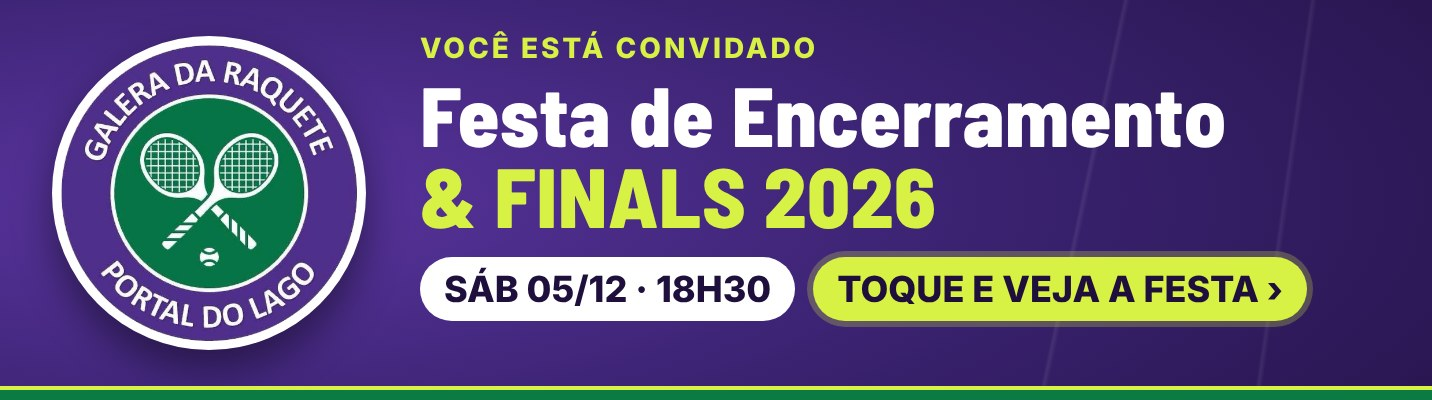
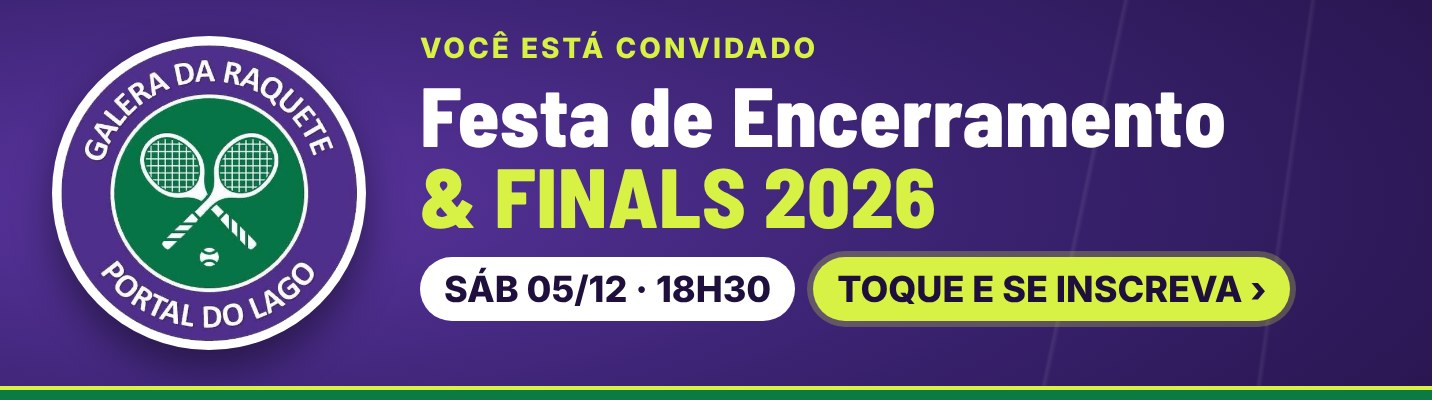
Teste: propaganda da festa com "Toque e se inscreva", até o fim das inscrições (30/11)
Claude-Session: https://claude.ai/code/session_01BnmeGA79SkwkRG86FEwmAw

Changed region(s): [[0.676, 0.63, 0.9218, 0.81]]

diff --git a/ranking-teste/app.js b/ranking-teste/app.js
@@ -1,9 +1,9 @@
 // Galera da Raquete · Ranking — app (PWA) ligado ao Supabase
-import * as M from './motor.js?v=20261118191834';
-import { SUPABASE_URL, SUPABASE_ANON_KEY } from './config.js?v=20261118191834';
-import { REGULAMENTO } from './regulamento.js?v=20261118191834';
-import { PRIVACIDADE, PRIVACIDADE_DATA } from './privacidade.js?v=20261118191834';
-import { TERMOS, TERMOS_DATA } from './termos.js?v=20261118191834';
+import * as M from './motor.js?v=20261118191941';
+import { SUPABASE_URL, SUPABASE_ANON_KEY } from './config.js?v=20261118191941';
+import { REGULAMENTO } from './regulamento.js?v=20261118191941';
+import { PRIVACIDADE, PRIVACIDADE_DATA } from './privacidade.js?v=20261118191941';
+import { TERMOS, TERMOS_DATA } from './termos.js?v=20261118191941';
 
 const $app = document.getElementById('app');
 const esc = (s) => String(s ?? '').replace(/[&<>"']/g, (c) => ({ '&': '&amp;', '<': '&lt;', '>': '&gt;', '"': '&quot;', "'": '&#39;' }[c]));
@@ -721,8 +721,8 @@ function slides() {
   out.forEach((x, i) => { mix.push(x); if (i % 4 === 3 && i < out.length - 1) mix.push({ tipo: festa && vez++ % 2 === 0 ? 'festa' : 'anuncie' }); });
   return mix;
 }
-// propaganda da festa no carrossel: aparece até o dia da festa (05/12) e abre a página do convite
-const FESTA_ATE = '2026-12-05', LINK_FESTA = 'https://galeradaraquete.github.io/';
+// propaganda da festa no carrossel: aparece até o fim das inscrições (30/11) e abre a página do convite
+const FESTA_ATE = '2026-11-30', LINK_FESTA = 'https://galeradaraquete.github.io/';
 function renderCarrossel(dir) {
   const el = document.getElementById('carrossel'); if (!el) return;
   const sl = slides(); if (!sl.length) { el.innerHTML = ''; return; }
@@ -732,7 +732,7 @@ function renderCarrossel(dir) {
     ? (s.dias === 0 ? `<div class="patro contagem" role="img" aria-label="Amanhã começa o Ranking ${s.ano}"><span class="cont-t" style="text-align:center"><small>É AMANHÃ!</small><b class="cond" style="font-size:26px">Ranking ${s.ano} começa amanhã 🎾</b></span></div>`
       : `<div class="patro contagem" role="img" aria-label="Faltam ${s.dias} dias pro Ranking ${s.ano}"><span class="cont-n cond">${s.dias}</span><span class="cont-t"><small>${s.dias === 1 ? 'FALTA' : 'FALTAM'}</small><b class="cond">${s.dias === 1 ? 'dia' : 'dias'} pro Ranking ${s.ano}</b></span></div>`)
     : s.tipo === 'festa'
-    ? `<a class="patro anuncie-img" href="${LINK_FESTA}" target="_blank" rel="noopener" aria-label="Festa de Encerramento e Finals 2026, sábado 05/12 às 18h30: toque pra abrir a página da festa"><img src="icones/festa-2026.jpg" alt="Festa de Encerramento e Finals 2026" width="1432" height="400"></a>`
+    ? `<a class="patro anuncie-img" href="${LINK_FESTA}" target="_blank" rel="noopener" aria-label="Festa de Encerramento e Finals 2026, sábado 05/12 às 18h30: toque pra se inscrever na festa"><img src="icones/festa-2026.jpg" alt="Festa de Encerramento e Finals 2026" width="1432" height="400"></a>`
     : s.tipo === 'anuncie'
     ? `<a class="patro anuncie-img" href="${esc(linkAnuncio)}" target="_blank" rel="noopener" aria-label="Anuncie aqui: falar no WhatsApp"><img src="icones/anuncie-5.jpg" alt="Anuncie aqui" width="1432" height="400"></a>`
     : s.tipo === 'anuncie-velho'

diff --git a/ranking-teste/index.html b/ranking-teste/index.html
@@ -2,7 +2,7 @@
 <html lang="pt-BR">
 <head>
 <meta charset="utf-8">
-<script src="redireciona.js?v=20261118191834"></script>
+<script src="redireciona.js?v=20261118191941"></script>
 <meta http-equiv="Content-Security-Policy" content="default-src 'self'; script-src 'self'; style-src 'self' 'unsafe-inline'; img-src 'self' data: blob: https://ekiihkdxbrwrvtnsbens.supabase.co https://rankingonline.com.br; font-src 'self'; connect-src 'self' https://ekiihkdxbrwrvtnsbens.supabase.co wss://ekiihkdxbrwrvtnsbens.supabase.co; media-src 'self'; worker-src 'self'; manifest-src 'self'; object-src 'none'; base-uri 'self'; form-action 'self'; upgrade-insecure-requests">
 <meta name="referrer" content="strict-origin-when-cross-origin">
 <meta name="viewport" content="width=device-width,initial-scale=1,viewport-fit=cover">
@@ -380,6 +380,6 @@ small.brilho{font-weight:700;background:linear-gradient(100deg,rgba(255,255,255,
 <body>
 <main id="app" class="app" aria-live="polite"><div class="splash"><img src="icones/logo.png" alt="Galera da Raquete Portal do Lago" width="120" height="120"><span>Carregando…</span></div></main>
 <script src="vendor/supabase-2.45.4/supabase.js" defer></script>
-<script type="module" src="app.js?v=20261118191834"></script>
+<script type="module" src="app.js?v=20261118191941"></script>
 </body>
 </html>
